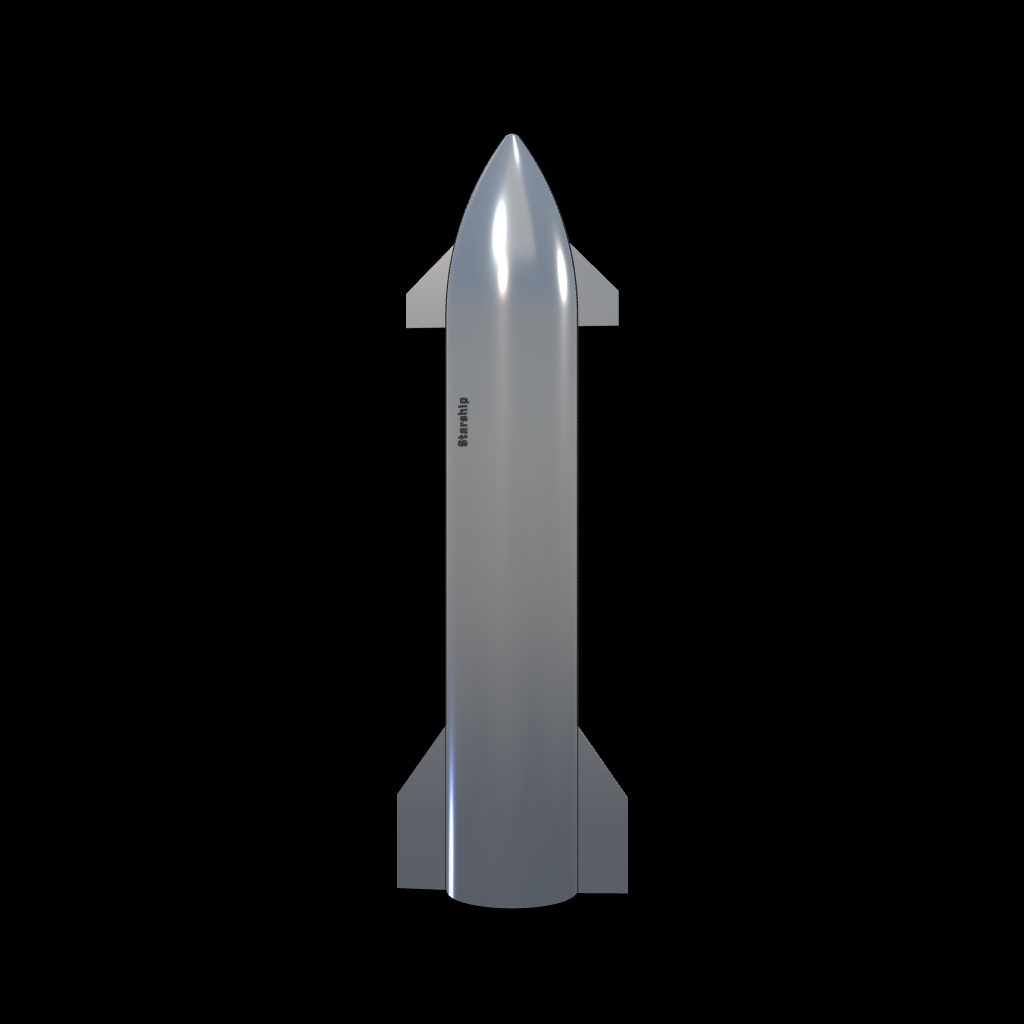
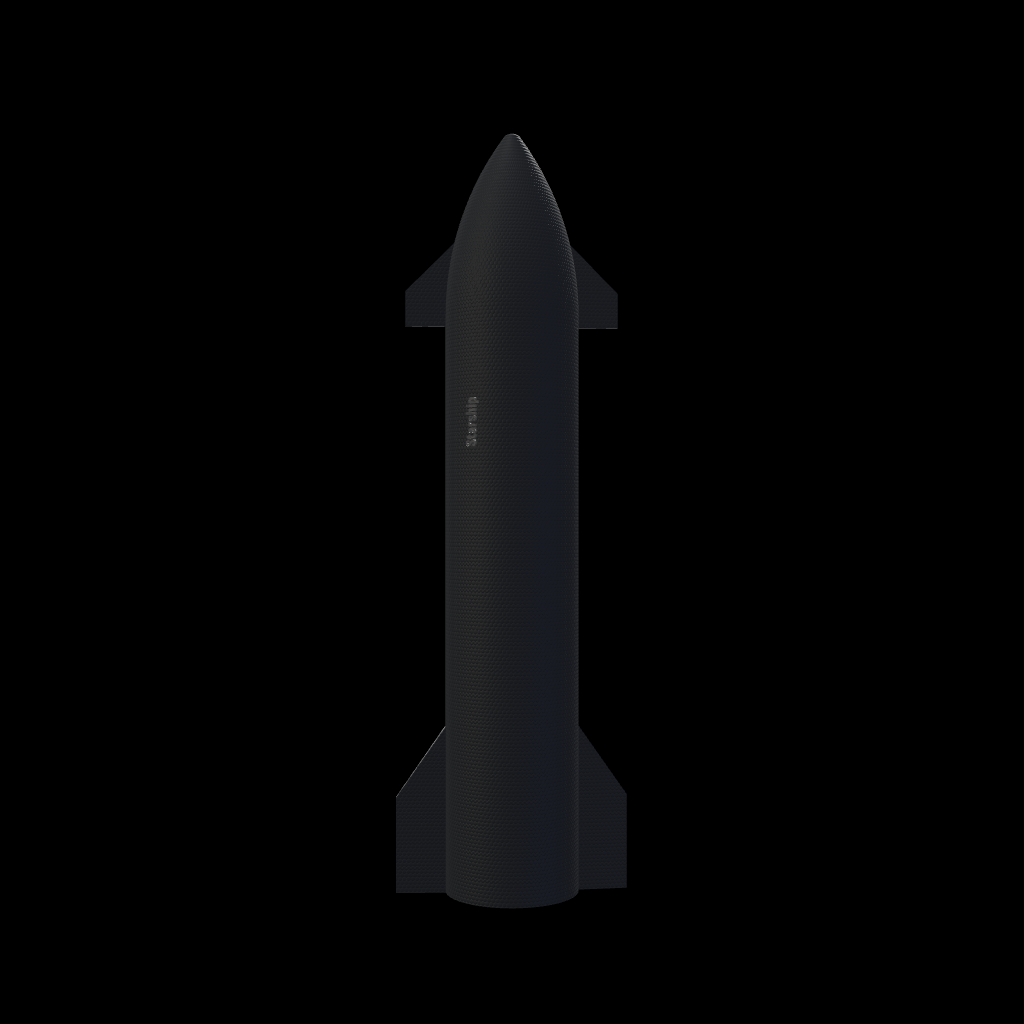
Default hull name to windward (180° from leeward).
Flip Original CAD side default to left/tiles and mirror seam bias; refresh gallery covers.

Changed region(s): [[0.375, 0.125, 0.625, 0.9062]]

diff --git a/index.html b/index.html
@@ -18,7 +18,7 @@
       content="https://leedsexplore.github.io/starship-custom-name/"
     />
     <link rel="canonical" href="https://leedsexplore.github.io/starship-custom-name/" />
-    <link rel="stylesheet" href="styles.css?v=2.4.14" />
+    <link rel="stylesheet" href="styles.css?v=2.4.15" />
   </head>
   <body>
     <div id="app">
@@ -26,7 +26,7 @@
         <header class="brand">
           <p class="eyebrow">
             Your name on Starship
-            <span class="version" id="app-version" aria-label="App version">v2.4.14</span>
+            <span class="version" id="app-version" aria-label="App version">v2.4.15</span>
           </p>
           <h1>Starship Custom Name</h1>
           <p class="lede">
@@ -121,16 +121,16 @@
             <legend>Hull side</legend>
             <div class="segmented">
               <label
-                ><input type="radio" name="side" value="right" checked />
+                ><input type="radio" name="side" value="right" />
                 Leeward</label
               >
               <label
-                ><input type="radio" name="side" value="left" /> Windward</label
+                ><input type="radio" name="side" value="left" checked /> Windward</label
               >
             </div>
             <p class="field-note">
-              Leeward = bare stainless. Flight markings sit on this face, near a
-              black tile / steel seam.
+              Default is windward (tiled). Switch to leeward for bare stainless /
+              flight-style S## placement.
             </p>
           </fieldset>
 
@@ -258,10 +258,10 @@
             <div class="named-covers" id="named-covers">
               <a
                 class="named-cover"
-                href="?ship=parametric&amp;name=S40&amp;side=right&amp;style=raised&amp;scale=100&amp;size=3.5&amp;pos=30&amp;text=1c1c1c&amp;font=oswald-bold"
+                href="?ship=parametric&amp;name=S40&amp;side=left&amp;style=raised&amp;scale=100&amp;size=3.5&amp;pos=30&amp;text=1c1c1c&amp;font=oswald-bold"
               >
                 <img
-                  src="./assets/named-covers/thumbs/s40.png?v=2.4.14"
+                  src="./assets/named-covers/thumbs/s40.png?v=2.4.15"
                   width="160"
                   height="160"
                   alt="S40 cover"
@@ -271,10 +271,10 @@
               </a>
               <a
                 class="named-cover"
-                href="?ship=parametric&amp;name=S33&amp;side=right&amp;style=raised&amp;scale=100&amp;size=3.5&amp;pos=30&amp;text=1c1c1c&amp;font=oswald-bold"
+                href="?ship=parametric&amp;name=S33&amp;side=left&amp;style=raised&amp;scale=100&amp;size=3.5&amp;pos=30&amp;text=1c1c1c&amp;font=oswald-bold"
               >
                 <img
-                  src="./assets/named-covers/thumbs/s33.png?v=2.4.14"
+                  src="./assets/named-covers/thumbs/s33.png?v=2.4.15"
                   width="160"
                   height="160"
                   alt="S33 cover"
@@ -284,10 +284,10 @@
               </a>
               <a
                 class="named-cover"
-                href="?ship=parametric&amp;name=IFT-12&amp;side=right&amp;style=raised&amp;scale=100&amp;size=3.5&amp;pos=30&amp;text=1c1c1c&amp;font=oswald-bold"
+                href="?ship=parametric&amp;name=IFT-12&amp;side=left&amp;style=raised&amp;scale=100&amp;size=3.5&amp;pos=30&amp;text=1c1c1c&amp;font=oswald-bold"
               >
                 <img
-                  src="./assets/named-covers/thumbs/ift-12.png?v=2.4.14"
+                  src="./assets/named-covers/thumbs/ift-12.png?v=2.4.15"
                   width="160"
                   height="160"
                   alt="IFT-12 cover"
@@ -297,10 +297,10 @@
               </a>
               <a
                 class="named-cover"
-                href="?ship=parametric&amp;name=Starship&amp;side=right&amp;style=raised&amp;scale=100&amp;size=3.5&amp;pos=30&amp;text=1c1c1c&amp;font=oswald-bold"
+                href="?ship=parametric&amp;name=Starship&amp;side=left&amp;style=raised&amp;scale=100&amp;size=3.5&amp;pos=30&amp;text=1c1c1c&amp;font=oswald-bold"
               >
                 <img
-                  src="./assets/named-covers/thumbs/starship.png?v=2.4.14"
+                  src="./assets/named-covers/thumbs/starship.png?v=2.4.15"
                   width="160"
                   height="160"
                   alt="Starship cover"
@@ -330,7 +330,7 @@
               rel="noopener"
               >source</a
             >
-            · <span id="footer-version">v2.4.14</span>)
+            · <span id="footer-version">v2.4.15</span>)
           </p>
           <p>
             Print files (hex one-piece + MMU):
@@ -392,6 +392,6 @@
         }
       }
     </script>
-    <script type="module" src="app.js?v=2.4.14"></script>
+    <script type="module" src="app.js?v=2.4.15"></script>
   </body>
 </html>

diff --git a/assets/starship_cad_preview.html b/assets/starship_cad_preview.html
@@ -104,7 +104,7 @@ const PARTS = HEX_RELIEF
   ? [
       {
         label: "stainless hull",
-        url: "./starship_print_1_200_steel.stl?v=2.4.14",
+        url: "./starship_print_1_200_steel.stl?v=2.4.15",
         scale: PRINT_TO_M,
         mat: new THREE.MeshStandardMaterial({
           color: 0x8a929c,
@@ -115,7 +115,7 @@ const PARTS = HEX_RELIEF
       },
       {
         label: "hex heat shield + Raptors",
-        url: "./starship_print_1_200_tiles_hex.stl?v=2.4.14",
+        url: "./starship_print_1_200_tiles_hex.stl?v=2.4.15",
         scale: PRINT_TO_M,
         mat: new THREE.MeshStandardMaterial({
           color: 0x1e2126,
@@ -128,7 +128,7 @@ const PARTS = HEX_RELIEF
   : [
       {
         label: "steel hull + flaps",
-        url: "./starship_print_1_200_steel.stl?v=2.4.14",
+        url: "./starship_print_1_200_steel.stl?v=2.4.15",
         scale: PRINT_TO_M,
         mat: new THREE.MeshStandardMaterial({
           color: 0x8a929c,
@@ -139,7 +139,7 @@ const PARTS = HEX_RELIEF
       },
       {
         label: "heat-shield tiles",
-        url: "./starship_print_1_200_tiles_shell.stl?v=2.4.14",
+        url: "./starship_print_1_200_tiles_shell.stl?v=2.4.15",
         scale: PRINT_TO_M,
         hexUV: true,
         mat: new THREE.MeshStandardMaterial({
@@ -153,7 +153,7 @@ const PARTS = HEX_RELIEF
       },
       {
         label: "raptor bells",
-        url: "./starship_print_1_200_engines.stl?v=2.4.14",
+        url: "./starship_print_1_200_engines.stl?v=2.4.15",
         scale: PRINT_TO_M,
         mat: new THREE.MeshStandardMaterial({
           color: 0x0b0c0e,

diff --git a/app.js b/app.js
@@ -5,14 +5,14 @@ import { STLExporter } from "three/addons/exporters/STLExporter.js";
 import { FontLoader } from "three/addons/loaders/FontLoader.js";
 import { TextGeometry } from "three/addons/geometries/TextGeometry.js";
 import { Brush, Evaluator, SUBTRACTION, HOLLOW_SUBTRACTION } from "three-bvh-csg";
-import { build3mf } from "./export3mf.js?v=2.4.14";
+import { build3mf } from "./export3mf.js?v=2.4.15";
 import {
   APP_NAME,
   APP_VERSION,
   AUTHOR,
   creditLine,
   versionLabel,
-} from "./version.js?v=2.4.14";
+} from "./version.js?v=2.4.15";
 
 const CACHE_BUST = APP_VERSION;
 
@@ -60,13 +60,12 @@ const SHIPS = {
     flapZoneYMm: 60,
     defaultSizeMm: 3.5,
     /**
-     * SpaceX-style S## marking (S40 FS-13 still): leeward stainless, toward the
-     * nose, biased toward the opposite tile/steel seam from the +X flap edge.
+     * Default on the windward face (180° from the classic leeward S## band).
      */
     defaultPosMm: 30,
-    defaultSide: "right",
-    /** Circumferential offset (mm along hull) toward the opposite TPS seam (−X). */
-    markingAcrossMm: -16,
+    defaultSide: "left",
+    /** Circumferential offset (mm along hull); mirrored with windward default. */
+    markingAcrossMm: 16,
     /** Exported nose-up along +Z with flaps on ±Y — swing into app convention. */
     orient(geometry) {
       geometry.rotateX(-Math.PI / 2); // nose +Z → +Y

diff --git a/version.js b/version.js
@@ -1,6 +1,6 @@
 /** App version & author — bump when shipping user-facing changes. */
 export const APP_NAME = "Starship Custom Name";
-export const APP_VERSION = "2.4.14";
+export const APP_VERSION = "2.4.15";
 
 export const AUTHOR = {
   name: "David Leeds",

diff --git a/README.md b/README.md
@@ -1,6 +1,6 @@
 # Starship Custom Name
 
-**v2.4.14** · by [David Leeds](https://github.com/leedsexplore) ([@leedsexplore](https://github.com/leedsexplore))
+**v2.4.15** · by [David Leeds](https://github.com/leedsexplore) ([@leedsexplore](https://github.com/leedsexplore))
 
 **North star:** the Starship with *your* name on it — a one-piece 1:200 desk print,
 real embossed hex heat tiles, and a free web customizer. Not a rivet-count replica kit.
@@ -48,12 +48,12 @@ See [ATTRIBUTION.md](ATTRIBUTION.md) for details.
 
 Shareable URLs look like:
 
-`https://leedsexplore.github.io/starship-custom-name/?ship=parametric&name=Alex&color=c8ced6&text=1c1c1c&font=oswald-bold&size=3.5&pos=30&depth=0.5&scale=100&side=right&style=raised&wrap=1`
+`https://leedsexplore.github.io/starship-custom-name/?ship=parametric&name=Alex&color=c8ced6&text=1c1c1c&font=oswald-bold&size=3.5&pos=30&depth=0.5&scale=100&side=left&style=raised&wrap=1`
 
 | Control | Notes |
 |--------|--------|
 | Base design | `ship=parametric` (default, Original CAD) or `ship=legacy` (classic remix) — segmented toggle in the UI |
-| Hull side | `side=right` = leeward (stainless) · `side=left` = windward (tiles) |
+| Hull side | Default `side=left` = windward (tiles) · `side=right` = leeward (stainless) |
 | Position | Default `pos=30` (parametric) / `-2` (legacy); slider ±60 mm along the hull (nose +) |
 | Font style | Classic (Optimer/Helvetiker/Gentilis/Droid) + popular (Roboto, Open Sans, Montserrat, Inter, …) + display (Oswald, Bebas Neue) |
 | Model scale | Baked into STL/3MF; **CORE One 1:200** preset (100% parametric / ~215% legacy) → H 260.5 mm |
